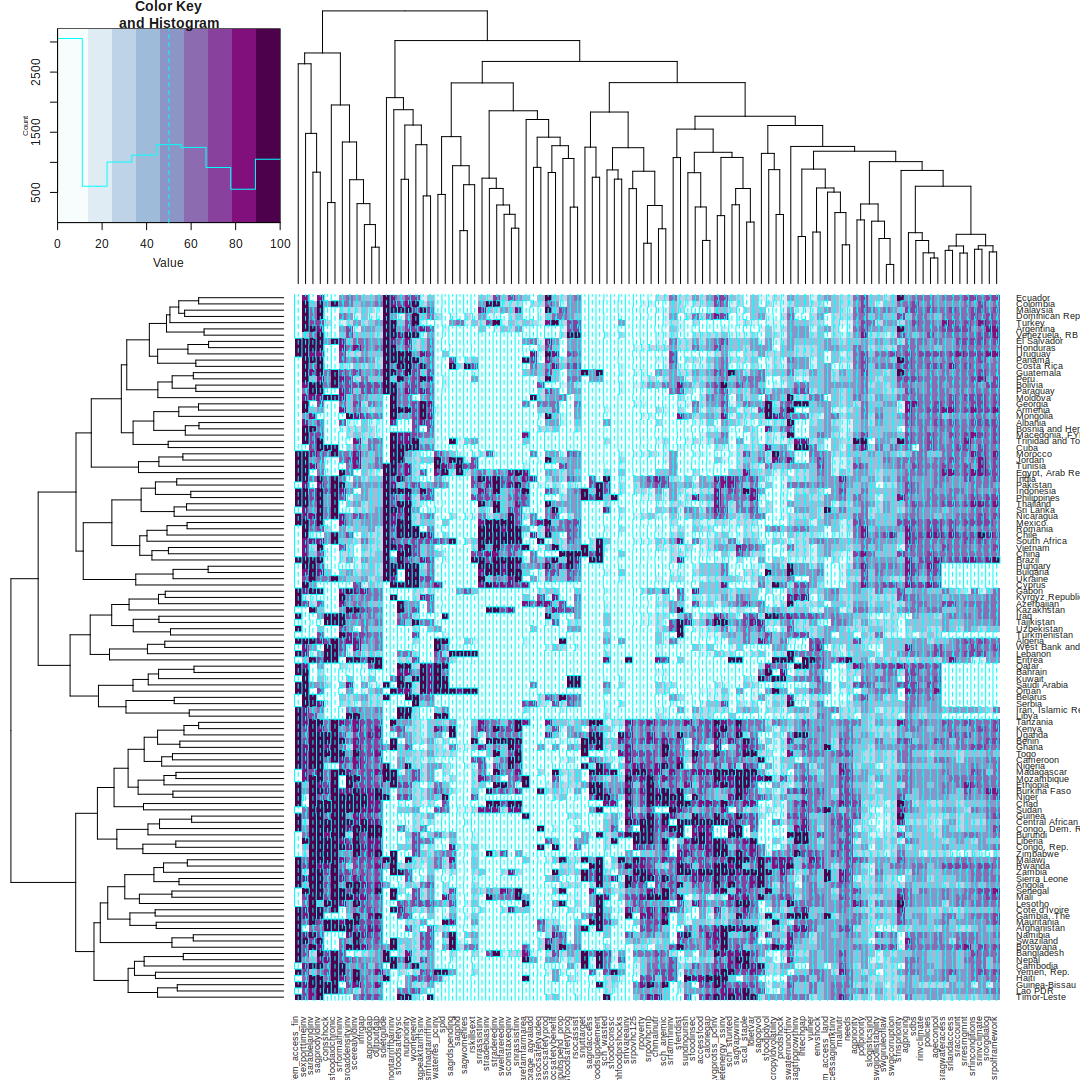
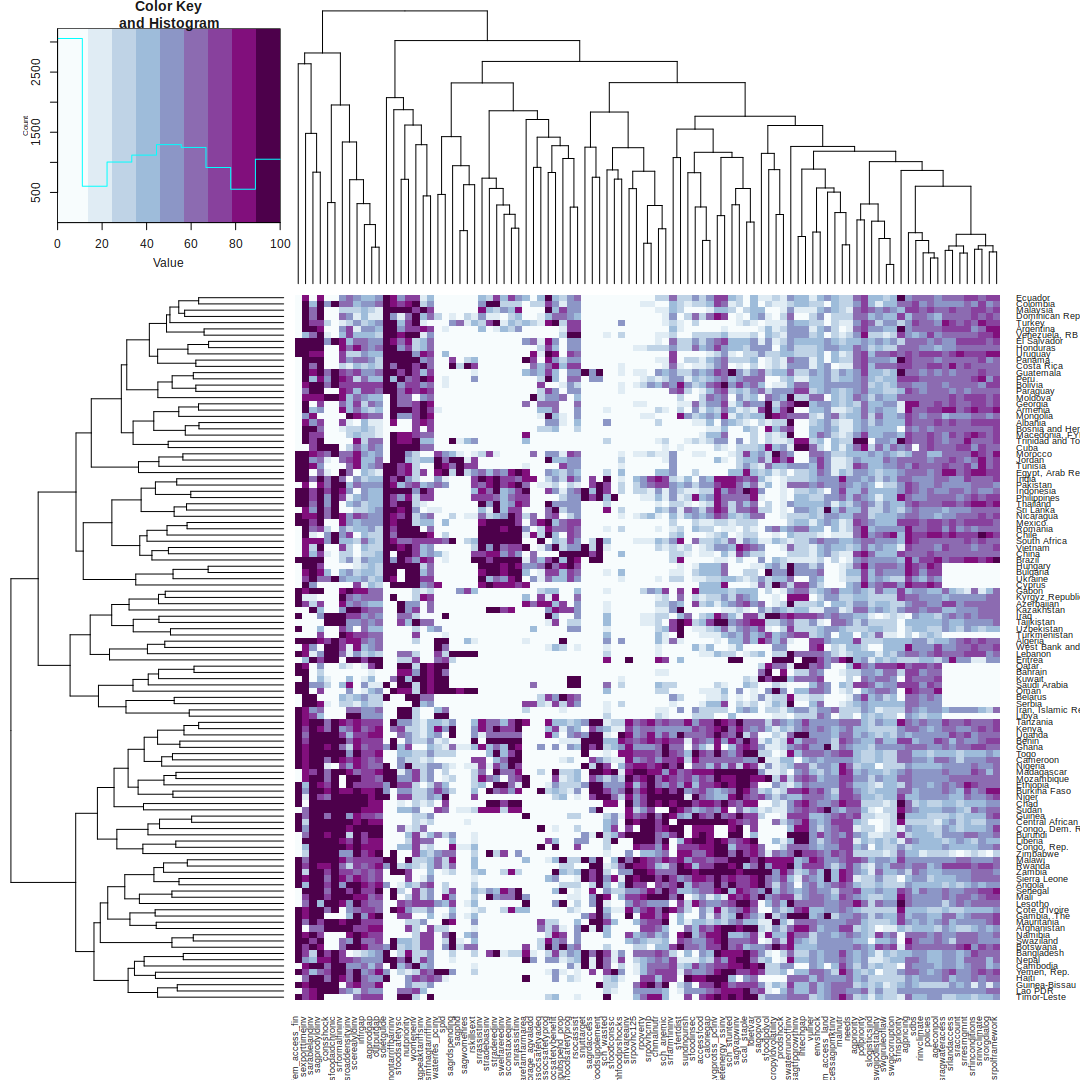
Removed trace from static heatmaps

Changed region(s): [[0.275, 0.275, 0.9472, 0.9472]]

diff --git a/README.md b/README.md
@@ -6,6 +6,20 @@ Note: For interactive heatmaps, `heatmap.2` can be swapped out for `d3heatmap`.
 ``` r
 #library('d3heatmap')
 library('dplyr')
+```
+
+    ## 
+    ## Attaching package: 'dplyr'
+    ## 
+    ## The following objects are masked from 'package:stats':
+    ## 
+    ##     filter, lag
+    ## 
+    ## The following objects are masked from 'package:base':
+    ## 
+    ##     intersect, setdiff, setequal, union
+
+``` r
 library('gplots')
 library('reshape2')
 library('ggplot2')
@@ -54,7 +68,7 @@ x = df[,needs_and_policies_cols]
 rownames(x) = df$Country
 
 #d3heatmap(x, colors='BuPu')
-heatmap.2(as.matrix(x), col=brewer.pal(9, 'BuPu'))
+heatmap.2(as.matrix(x), col=brewer.pal(9, 'BuPu'), trace='none')
 ```
 
 ![](README_files/figure-markdown_github/load_data-1.png)
@@ -66,7 +80,7 @@ Country and variable trends
 
 ``` r
 #d3heatmap(cor(df[,needs_and_policies_cols]))
-heatmap.2(cor(df[,needs_and_policies_cols]))
+heatmap.2(cor(df[,needs_and_policies_cols]), trace='none')
 ```
 
 ![](README_files/figure-markdown_github/needs_and_policies_variable_heatmap-1.png)
@@ -77,7 +91,7 @@ heatmap.2(cor(df[,needs_and_policies_cols]))
 x = cor(t(df[,needs_and_policies_cols]))
 rownames(x) = colnames(x) = df$Country
 #d3heatmap(x)
-heatmap.2(as.matrix(x))
+heatmap.2(as.matrix(x), trace='none')
 ```
 
 ![](README_files/figure-markdown_github/needs_and_policies_variable_heatmap-1-1.png)
